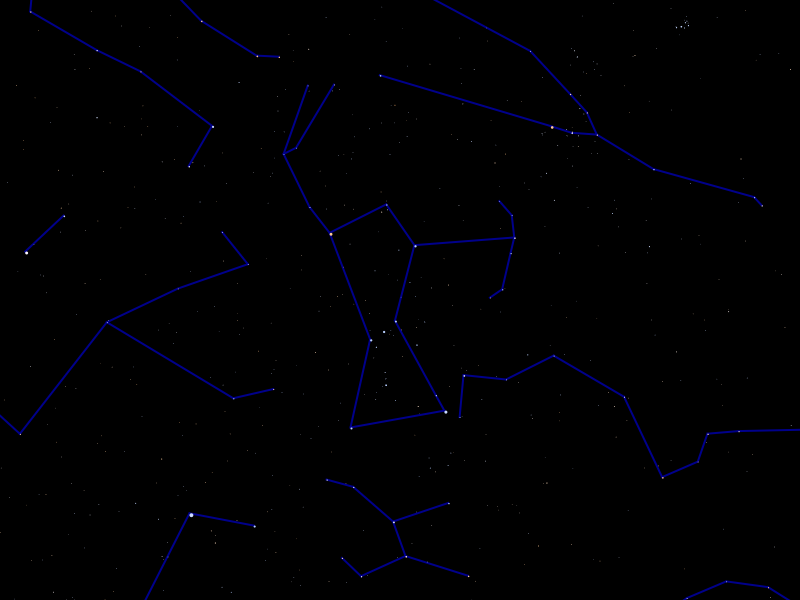
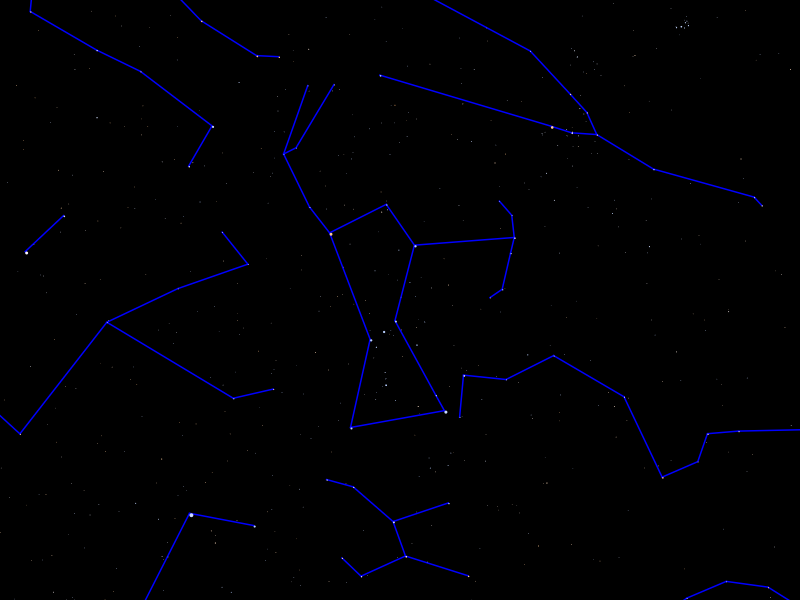
much better asterismDrawing

diff --git a/src/ch/epfl/rigel/gui/SkyCanvasPainter.java b/src/ch/epfl/rigel/gui/SkyCanvasPainter.java
@@ -2,76 +2,69 @@ package ch.epfl.rigel.gui;
 
 import ch.epfl.rigel.astronomy.*;
 import ch.epfl.rigel.coordinates.CartesianCoordinates;
-import ch.epfl.rigel.coordinates.HorizontalCoordinates;
 import ch.epfl.rigel.coordinates.StereographicProjection;
 import ch.epfl.rigel.logging.RigelLogger;
 import ch.epfl.rigel.math.Angle;
 import ch.epfl.rigel.math.ClosedInterval;
-import ch.epfl.rigel.parallelism.RigelThreadFactory;
 import javafx.scene.canvas.Canvas;
 import javafx.scene.canvas.GraphicsContext;
 import javafx.scene.paint.Color;
 import javafx.scene.paint.Paint;
 import javafx.scene.transform.Transform;
 
-import java.util.Comparator;
-import java.util.HashMap;
-import java.util.List;
 import java.util.Map;
-import java.util.TreeMap;
 import java.util.function.Function;
-import java.util.stream.Collectors;
 import java.util.stream.IntStream;
 import java.util.stream.Stream;
 
-import static java.lang.StrictMath.tan;
+import static java.lang.Math.tan;
 
 public class SkyCanvasPainter {
 
-    final private static double COEFF = 2 * tan(Angle.ofDeg(0.5) / 4) / 140;
-    final private Canvas canvas;
-    final private GraphicsContext graphicsContext;
-    final static private Function<Star, Paint> starColor = s -> BlackBodyColor.colorForTemperature(s.colorTemperature());
+    private final static double COEFF = 2 * tan(Angle.ofDeg(0.5) / 4) / 140;
+    private final static Color YELLOW_HALO = Color.color(1, 1, 0, 0.25);
+
+    private final Canvas canvas;
+    private final GraphicsContext graphicsContext;
+
+    private final static Function<Star, Paint> STAR_COLOR = s -> BlackBodyColor.colorForTemperature(s.colorTemperature());
+    private final Function<CartesianCoordinates, Boolean> isInCanvas;
 
     public SkyCanvasPainter(Canvas canvas) {
         this.canvas = canvas;
         this.graphicsContext = this.canvas.getGraphicsContext2D();
+        this.isInCanvas = coord -> coord.x() <= canvas.getWidth() && coord.y() <= canvas.getHeight();
         RigelLogger.getGuiLogger().info("Canvas initialised ready to draw");
     }
 
     public void clear() {
         graphicsContext.setFill(Color.BLACK);
         graphicsContext.fillRect(0, 0, canvas.getWidth(), canvas.getHeight());
-        graphicsContext.setStroke(Color.DARKBLUE);
-        graphicsContext.setLineWidth(2);
+        graphicsContext.setStroke(Color.BLUE);
+        graphicsContext.setLineWidth(1.5);
     }
 
-    public boolean drawAsterisms(ObservedSky sky, StereographicProjection projection, Transform T) {
+    public boolean drawAsterisms(ObservedSky sky, Transform T) {
         sky.asterisms().forEach(
-                asterism -> IntStream.range(0, sky.asterismIndices(asterism).size()-1).boxed().forEach(
-                        i -> {
-                                final Map<Star, CartesianCoordinates> duoMap = new TreeMap<>(Comparator.comparingInt(asterism.stars()::indexOf));
-                                duoMap.put(sky.stars().get(sky.asterismIndices(asterism).get(i)),sky.starCartesianCoordinatesMap().get(sky.stars().get(sky.asterismIndices(asterism).get(i))));
-                                duoMap.put(sky.stars().get(sky.asterismIndices(asterism).get(i+1)),sky.starCartesianCoordinatesMap().get(sky.stars().get(sky.asterismIndices(asterism).get(i+1))));
-                                drawLine(applyTransform(mask(duoMap.entrySet().stream()), T));
-                        }
-                )
-        );
+            asterism -> IntStream.range(0, sky.asterismIndices(asterism).size() - 1).boxed().forEach(
+                i -> asterismLine(getCartesFromIndex(sky, asterism, i),
+                     getCartesFromIndex(sky, asterism, i + 1), T)));
         return true;
     }
 
     public boolean drawStars(ObservedSky sky, StereographicProjection projection, Transform T) {
-        pipeline(sky.starCartesianCoordinatesMap(), star -> projection.applyToAngle(celestialSize(star)), starColor, T);
+        pipeline(sky.starCartesianCoordinatesMap(), star -> projection.applyToAngle(celestialSize(star)), STAR_COLOR, T);
         return true;
     }
 
     public boolean drawPlanets(ObservedSky sky, StereographicProjection projection, Transform T) {
         pipeline(sky.planetCartesianCoordinatesMap(), planet -> projection.applyToAngle(celestialSize(planet)), planet -> Color.LIGHTGRAY, T);
         return true;
-
     }
 
     public boolean drawSun(ObservedSky sky, StereographicProjection projection, Transform T) {
+        pipeline(sky.sunMap(), sun -> projection.applyToAngle(sun.angularSize() * 2.2), sun -> YELLOW_HALO, T);
+        pipeline(sky.sunMap(), sun -> projection.applyToAngle(sun.angularSize() + 2), sun -> Color.YELLOW, T);
         pipeline(sky.sunMap(), sun -> projection.applyToAngle(sun.angularSize()), sun -> Color.WHITE, T);
         return true;
     }
@@ -95,15 +88,7 @@ public class SkyCanvasPainter {
     }
 
     private <T extends CelestialObject> Stream<Map.Entry<T, CartesianCoordinates>> applyTransform(final Stream<Map.Entry<T, CartesianCoordinates>> positions, Transform t) {
-        return positions.parallel().map(e ->
-        {
-            final double x = e.getValue().x();
-            final double y = e.getValue().y();
-
-            return Map.entry(e.getKey(), CartesianCoordinates.of(t.getMxx() * x + t.getMxy() * y + t.getTx(),
-                    t.getMyx() * x + t.getMyy() * y + t.getTy()));
-
-        });
+        return positions.parallel().map(e -> Map.entry(e.getKey(), transformedCartesCoords(e.getValue(), t)));
     }
 
     private <T extends CelestialObject> void drawCelestial(final Stream<Map.Entry<T, CartesianCoordinates>> positions,
@@ -113,24 +98,36 @@ public class SkyCanvasPainter {
         {
             synchronized (graphicsContext) {
                 graphicsContext.setFill(color.apply(e.getKey()));
-                graphicsContext.fillOval(e.getValue().x(), e.getValue().y(),  2000 * diameter.apply(e.getKey()),  2000 * diameter.apply(e.getKey()));
+                graphicsContext.fillOval(e.getValue().x(), e.getValue().y(), 2000 * diameter.apply(e.getKey()),
+                        2000 * diameter.apply(e.getKey()));
             }
 
         });
     }
 
-    private <T extends CelestialObject> void drawLine(final Stream<Map.Entry<T, CartesianCoordinates>> positions) {
-        List<CartesianCoordinates> coords = positions.map(Map.Entry::getValue).collect(Collectors.toList());
-        graphicsContext.strokeLine(coords.get(0).x(),coords.get(0).y(), coords.get(1).x(), coords.get(1).y());
+    private <T extends CelestialObject> Stream<Map.Entry<T, CartesianCoordinates>> mask(final Stream<Map.Entry<T, CartesianCoordinates>> list) {
+        return list.filter(e -> isInCanvas.apply(e.getValue()));
     }
 
-    private <T extends CelestialObject> Stream<Map.Entry<T, CartesianCoordinates>> mask(final Stream<Map.Entry<T, CartesianCoordinates>> list) {
-        return list.filter(e -> e.getValue().x() <= canvas.getWidth() && e.getValue().y() <= canvas.getHeight());
+    private void asterismLine(final CartesianCoordinates c1, final CartesianCoordinates c2, final Transform t) {
+        if (isInCanvas.apply(c1) && isInCanvas.apply(c2)) {
+            final CartesianCoordinates c1S = transformedCartesCoords(c1, t);
+            final CartesianCoordinates c2S = transformedCartesCoords(c2, t);
+            graphicsContext.strokeLine(c1S.x(), c1S.y(), c2S.x(), c2S.y());
+        }
+    }
 
+    private CartesianCoordinates getCartesFromIndex(ObservedSky sky, Asterism aster, int index) {
+        return sky.starCartesianCoordinatesMap().get(sky.stars().get(sky.asterismIndices(aster).get(index)));
     }
 
     private static <T extends CelestialObject> Double celestialSize(final T s) {
         return (99 - 17 * ClosedInterval.of(-2, 5).clip(s.magnitude())) * COEFF;
+    }
+
+    private static CartesianCoordinates transformedCartesCoords(final CartesianCoordinates cartesCoord, final Transform t) {
+        return CartesianCoordinates.of(t.getMxx() * cartesCoord.x() + t.getMxy() * cartesCoord.y() + t.getTx(),
+                t.getMyx() * cartesCoord.x() + t.getMyy() * cartesCoord.y() + t.getTy());
     }
 }
 

diff --git a/src/ch/epfl/rigel/gui/DrawSky.java b/src/ch/epfl/rigel/gui/DrawSky.java
@@ -44,7 +44,7 @@ public final class DrawSky extends Application {
 
 
                 try (InputStream hs = resourceStream("/hygdata_v3.csv"); InputStream ast = resourceStream("/asterisms.txt")) {
-
+                    BlackBodyColor.init();
 
                     final Future<StarCatalogue> catalogue = ThreadManager.getGui().submit(() -> new StarCatalogue.Builder()
                             .loadFrom(hs, HygDatabaseLoader.INSTANCE).loadFrom(ast, AsterismLoader.INSTANCE)
@@ -62,12 +62,12 @@ public final class DrawSky extends Application {
 
                     final Future<SkyCanvasPainter> painterFuture = ThreadManager.getGui().submit(() -> new SkyCanvasPainter(canvasFuture.get()));
 
-                    RigelLogger.getBackendLogger().info("Beggining gui");
+                    RigelLogger.getBackendLogger().info("Beginning gui");
                     var a = ThreadManager.getGui().submit(()-> {
 
                         try {
                             painterFuture.get().clear();
-                            painterFuture.get().drawAsterisms(skyFuture.get(), projection.get(), transformFutureFuture.get());
+                            painterFuture.get().drawAsterisms(skyFuture.get(), transformFutureFuture.get());
                             painterFuture.get().drawSun(skyFuture.get(), projection.get(), transformFutureFuture.get());
                             painterFuture.get().drawStars(skyFuture.get(), projection.get(), transformFutureFuture.get());
                             painterFuture.get().drawPlanets(skyFuture.get(), projection.get(), transformFutureFuture.get());
